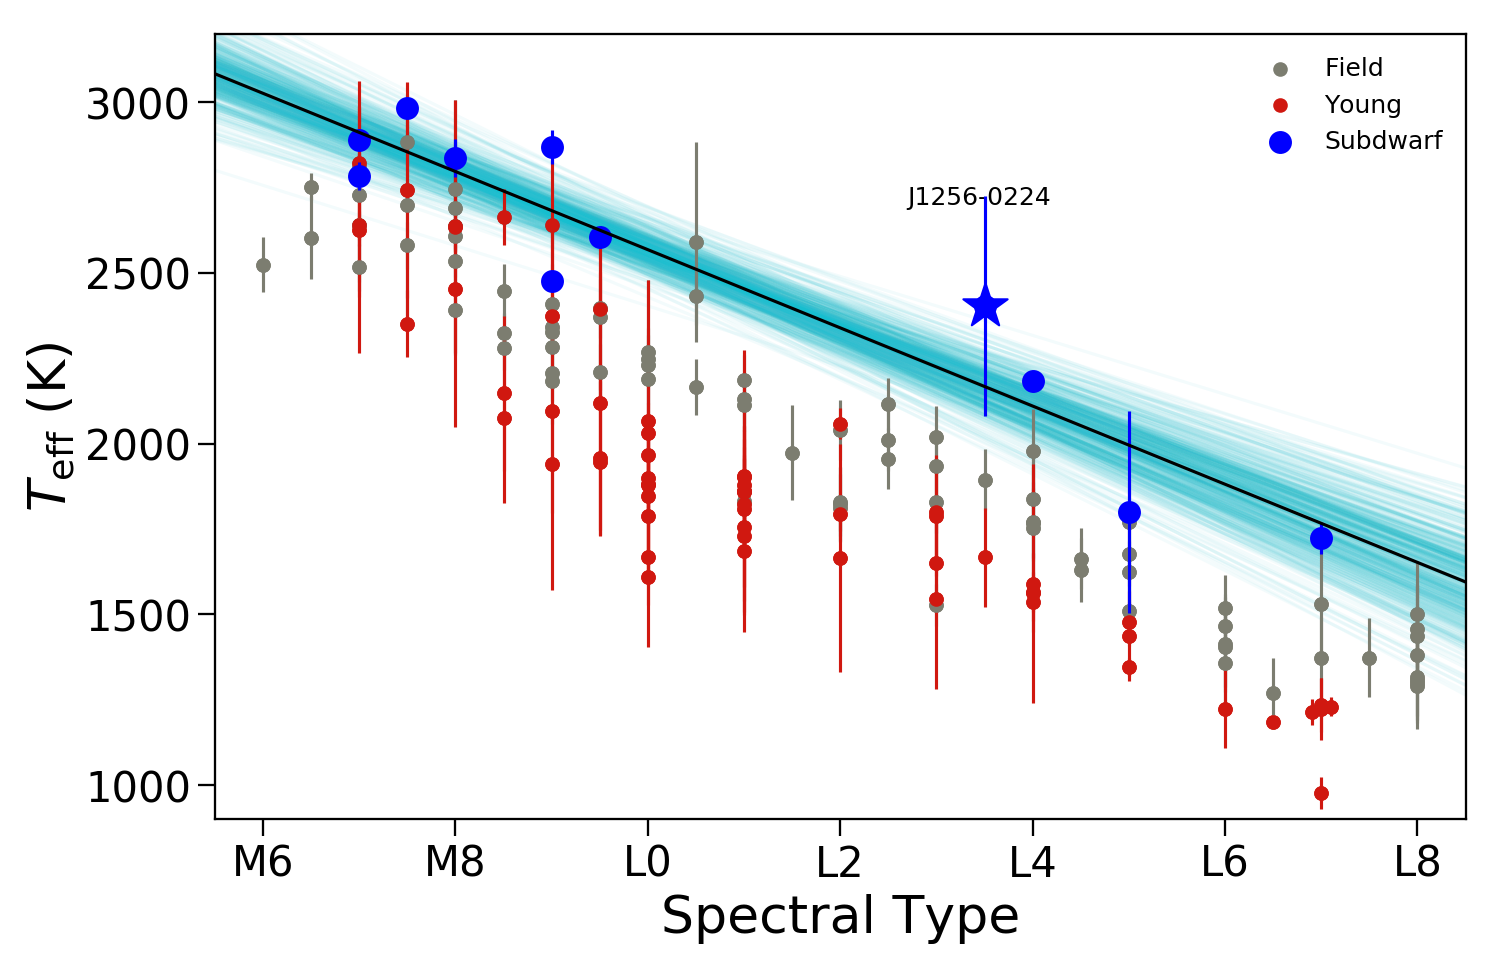
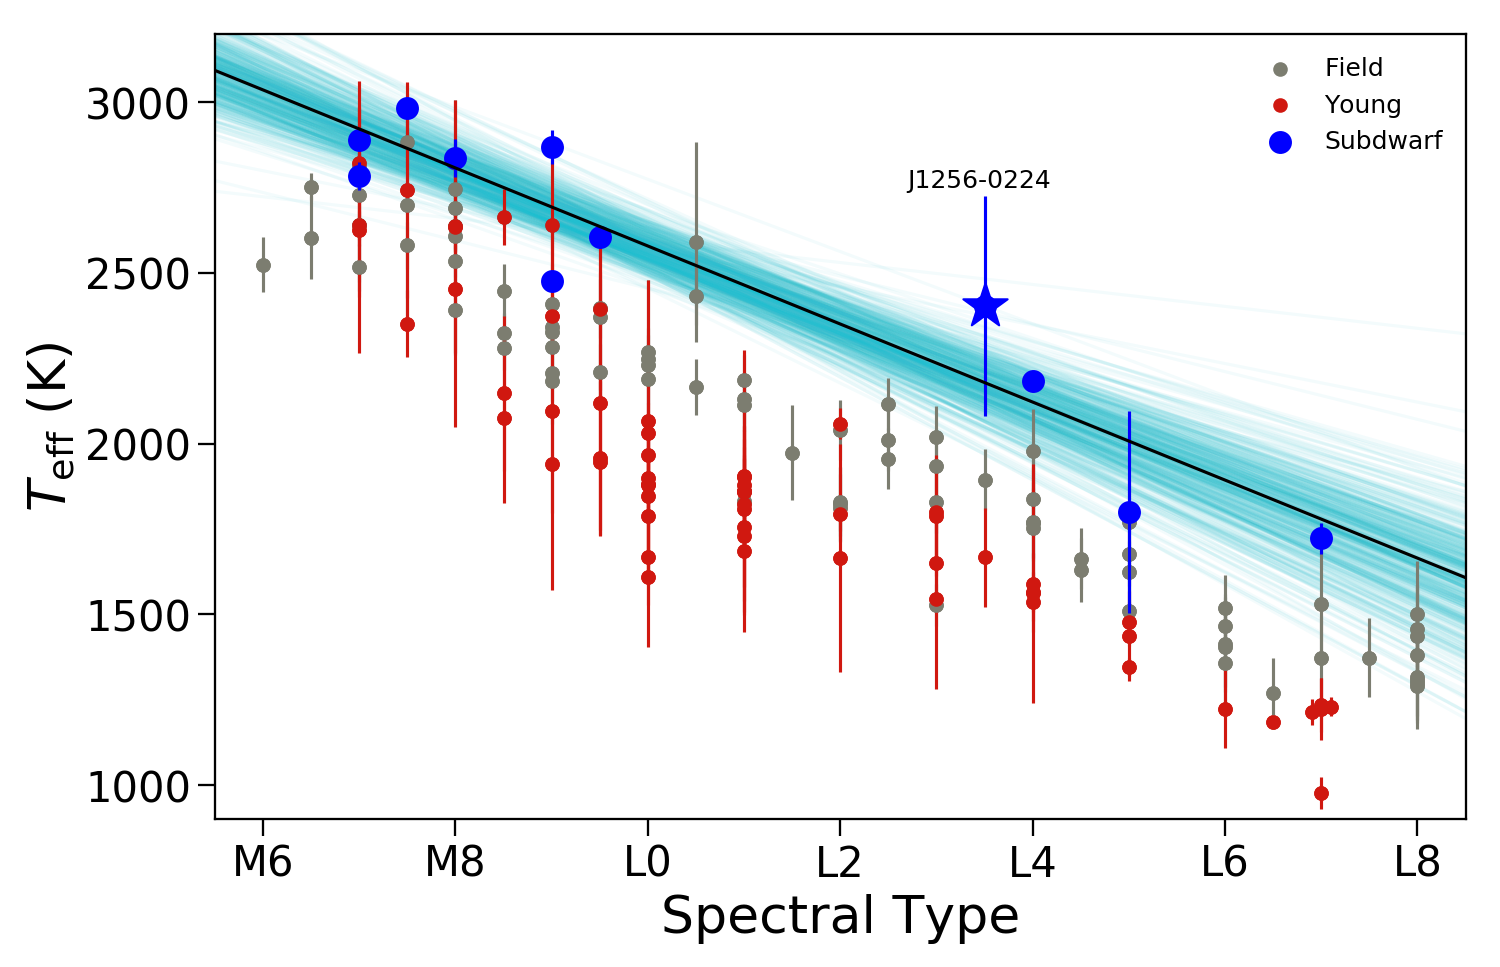
Fixed 1256 label

Changed region(s): [[0.1227, 0.031, 0.9813, 0.7446], [0.6133, 0.1551, 0.7053, 0.2172]]

diff --git a/SpTvTeff.py b/SpTvTeff.py
@@ -141,7 +141,7 @@ ax1.errorbar(df_sub['SpT'], df_sub['Teff'], yerr=df_sub['Teff_err'], c='blue', f
 
 # --- Designate 1256-0224 -----
 sub1256 = plt.scatter(df_sub['SpT'][0], df_sub['Teff'][0], color='blue', s=500, zorder=7, marker="*")
-ax1.annotate('J1256-0224', xy=(12.7, 2700), color='k', fontsize=12)
+ax1.annotate('J1256-0224', xy=(12.7, 2750), color='k', fontsize=12)
 
 # ---- Add Legend ----
 plt.legend([fld, young, sub], ["Field", "Young", 'Subdwarf'], frameon=False, fontsize=12)
